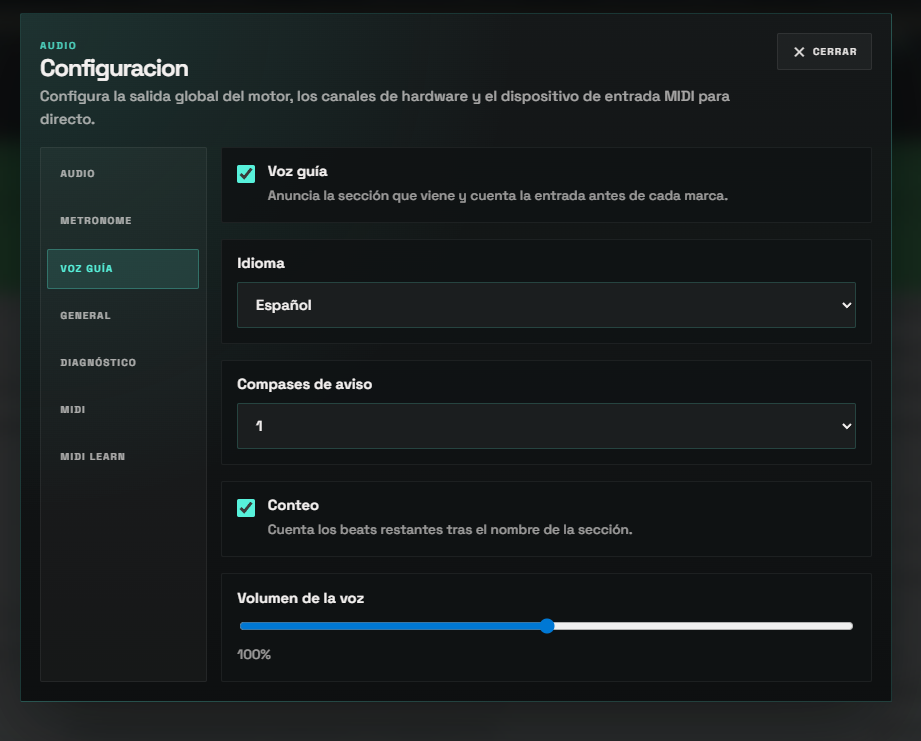
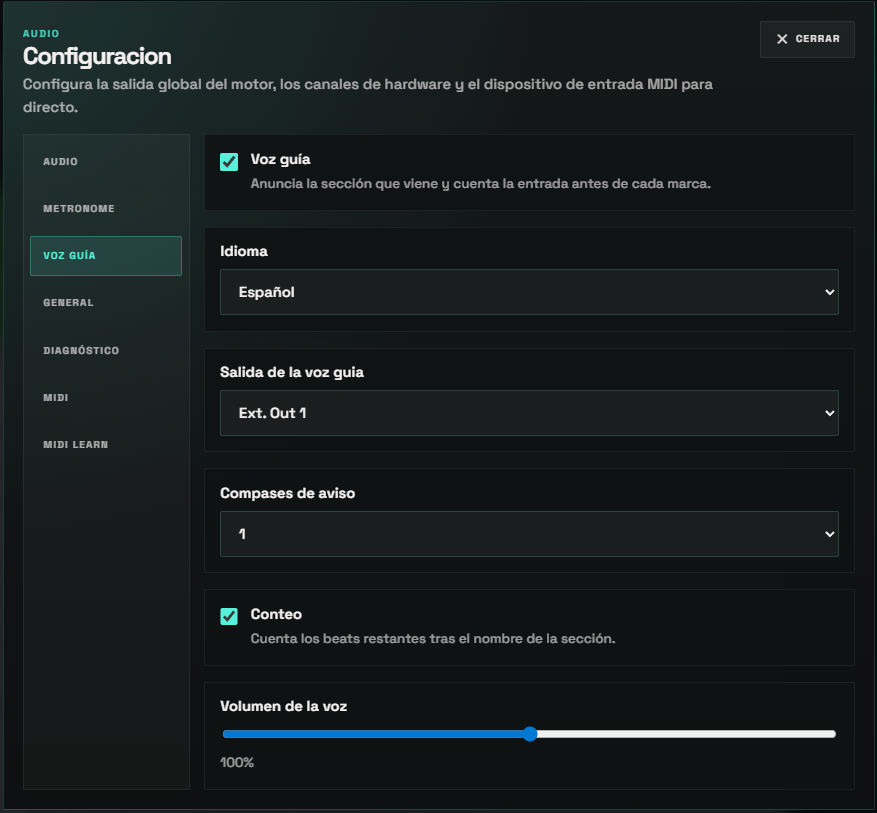
feat(voice-guide): add configurable voice guide output routing and update related settings

diff --git a/apps/desktop/src/features/transport/panels/SettingsPanel.tsx b/apps/desktop/src/features/transport/panels/SettingsPanel.tsx
@@ -174,6 +174,13 @@ export function SettingsPanel({
   onMidiLearnTarget,
 }: SettingsPanelProps) {
   const { t } = useTranslation();
+  const voiceGuideRoutingOptions = [
+    {
+      value: "monitor",
+      label: t("trackHeader.monitor", { defaultValue: "Monitor" }),
+    },
+    ...audioRoutingOptions.filter((option) => option.value !== "monitor"),
+  ];
 
   if (!isOpen) {
     return null;
@@ -925,6 +932,29 @@ export function SettingsPanel({
                           >
                             <option value="es">Español</option>
                             <option value="en">English</option>
+                          </select>
+                        </label>
+
+                        <label className="lt-settings-field">
+                          <span className="lt-settings-field-label">
+                            {t("transport.settingsModal.voiceGuideOutput", {
+                              defaultValue: "Voice guide output",
+                            })}
+                          </span>
+                          <select
+                            value={appSettings.voiceGuideOutput}
+                            disabled={isLoading || isSaving}
+                            onChange={(event) =>
+                              onVoiceGuideChange({
+                                voiceGuideOutput: event.target.value,
+                              })
+                            }
+                          >
+                            {voiceGuideRoutingOptions.map((option) => (
+                              <option key={option.value} value={option.value}>
+                                {option.label}
+                              </option>
+                            ))}
                           </select>
                         </label>
 

diff --git a/packages/shared/src/models.ts b/packages/shared/src/models.ts
@@ -435,6 +435,7 @@ export type AppSettings = {
   metronomeSubdivisionPitch: number;
   metronomeSubdivisionGain: number;
   voiceGuideEnabled: boolean;
+  voiceGuideOutput: string;
   voiceGuideVolume: number;
   voiceGuideLeadBars: number;
   voiceGuideCountInEnabled: boolean;
@@ -477,6 +478,7 @@ export const DEFAULT_APP_SETTINGS: AppSettings = {
   metronomeSubdivisionPitch: 0,
   metronomeSubdivisionGain: 0.5,
   voiceGuideEnabled: false,
+  voiceGuideOutput: "monitor",
   voiceGuideVolume: 1.0,
   voiceGuideLeadBars: 1,
   voiceGuideCountInEnabled: true,
@@ -590,6 +592,9 @@ export function normalizeAppSettings(settings: AppSettings): AppSettings {
   const metronomeOutput =
     settings.metronomeOutput?.trim().toLowerCase() ||
     DEFAULT_APP_SETTINGS.metronomeOutput;
+  const voiceGuideOutput =
+    settings.voiceGuideOutput?.trim().toLowerCase() ||
+    DEFAULT_APP_SETTINGS.voiceGuideOutput;
   const globalJumpMode =
     settings.globalJumpMode === "after_bars" ||
     settings.globalJumpMode === "next_marker"
@@ -654,6 +659,7 @@ export function normalizeAppSettings(settings: AppSettings): AppSettings {
     metronomeSubdivisionPitch,
     metronomeSubdivisionGain,
     voiceGuideEnabled: Boolean(settings.voiceGuideEnabled),
+    voiceGuideOutput,
     voiceGuideVolume: Number.isFinite(settings.voiceGuideVolume)
       ? Math.min(4, Math.max(0, settings.voiceGuideVolume))
       : DEFAULT_APP_SETTINGS.voiceGuideVolume,

diff --git a/apps/desktop/src/features/transport/helpers.ts b/apps/desktop/src/features/transport/helpers.ts
@@ -108,6 +108,10 @@ export function formatAudioRouteLabel(route: string, t: TFunc) {
     return t("trackHeader.master", { defaultValue: "Master" });
   }
 
+  if (route === "monitor") {
+    return t("trackHeader.monitor", { defaultValue: "Monitor" });
+  }
+
   if (route.startsWith("ext:")) {
     const channelPart = route.slice(4);
     if (channelPart.includes("-")) {

diff --git a/apps/desktop/src/shared/i18n/en.ts b/apps/desktop/src/shared/i18n/en.ts
@@ -122,6 +122,7 @@ const en = {
       metronomeVolume: "Metronome volume",
       metronomeVolumeValue: "{{value}}%",
       metronomeOutput: "Metronome output",
+      voiceGuideOutput: "Voice guide output",
       metronomeAccentSound: "Accent sound",
       metronomeBeatSound: "Beat sound",
       metronomeAccentPitch: "Accent pitch",
@@ -547,6 +548,7 @@ const en = {
     transposeDisableAria: "Disable pitch transposition on {{name}}",
     inherited: "Inherited (Folder)",
     master: "Master",
+    monitor: "Monitor",
     extOutMono: "Ext. Out {{channel}}",
     extOutStereo: "Ext. Out {{left}}/{{right}}",
   },

diff --git a/apps/desktop/src/shared/i18n/es.ts b/apps/desktop/src/shared/i18n/es.ts
@@ -123,6 +123,7 @@ const es = {
       metronomeVolume: "Volumen del metronomo",
       metronomeVolumeValue: "{{value}}%",
       metronomeOutput: "Salida del metronomo",
+      voiceGuideOutput: "Salida de la voz guia",
       tabVoiceGuide: "Voz guía",
       voiceGuide: "Voz guía",
       voiceGuideDescription:
@@ -572,6 +573,7 @@ const es = {
     transposeDisableAria: "Desactivar la transposicion de tono en {{name}}",
     inherited: "Heredado (Folder)",
     master: "Master",
+    monitor: "Monitor",
     extOutMono: "Ext. Out {{channel}}",
     extOutStereo: "Ext. Out {{left}}/{{right}}",
   },

diff --git a/apps/desktop/src/app/testDesktopApiMock.ts b/apps/desktop/src/app/testDesktopApiMock.ts
@@ -410,6 +410,7 @@ function buildInitialState(): DesktopApiMockState {
       metronomeSubdivisionPitch: 0,
       metronomeSubdivisionGain: 0.5,
       voiceGuideEnabled: false,
+      voiceGuideOutput: "monitor",
       voiceGuideVolume: 1.0,
       voiceGuideLeadBars: 1,
       voiceGuideCountInEnabled: true,

diff --git a/native/audio-engine-v2/src/render/voice_guide_renderer.cpp b/native/audio-engine-v2/src/render/voice_guide_renderer.cpp
@@ -4,6 +4,7 @@
 
 #include <algorithm>
 #include <atomic>
+#include <cctype>
 #include <cmath>
 #include <cstring>
 #include <string>
@@ -260,8 +261,31 @@ void VoiceGuideRenderer::set_config(const VoiceGuideConfig& config) {
     copy_text(output_route_, route);
     if (route == "master") {
         route_mode_.store(static_cast<int>(RouteMode::Master), std::memory_order_release);
+        route_start_.store(0, std::memory_order_release);
+        route_end_.store(1, std::memory_order_release);
+    } else if (route.rfind("ext:", 0) == 0) {
+        route_mode_.store(static_cast<int>(RouteMode::Ext), std::memory_order_release);
+        std::string spec = route.substr(4);
+        auto dash = spec.find('-');
+        int start = 0;
+        int end = 0;
+        try {
+            if (dash == std::string::npos) {
+                start = end = std::max(0, std::stoi(spec));
+            } else {
+                start = std::max(0, std::stoi(spec.substr(0, dash)));
+                end = std::max(start, std::stoi(spec.substr(dash + 1)));
+            }
+        } catch (...) {
+            start = 2;
+            end = 3;
+        }
+        route_start_.store(start, std::memory_order_release);
+        route_end_.store(end, std::memory_order_release);
     } else {
         route_mode_.store(static_cast<int>(RouteMode::Monitor), std::memory_order_release);
+        route_start_.store(2, std::memory_order_release);
+        route_end_.store(3, std::memory_order_release);
     }
 }
 
@@ -388,7 +412,8 @@ void VoiceGuideRenderer::render(float** output_channels,
         if (current_output_gain_ <= 0.000001f) return;
     }
 
-    // Resolve the monitor output pair (channels 2-3 when available, else 0-1).
+    // Resolve the configured output route. The legacy monitor bus uses
+    // channels 2-3 when available, else falls back to the main pair.
     int left = 0;
     int right = std::min(1, num_channels - 1);
     const int mode = route_mode_.load(std::memory_order_acquire);
@@ -400,6 +425,10 @@ void VoiceGuideRenderer::render(float** output_channels,
         } else {
             copy_text(route_resolved_, "monitor_fallback_master");
         }
+    } else if (mode == static_cast<int>(RouteMode::Ext)) {
+        left = std::clamp(route_start_.load(std::memory_order_acquire), 0, num_channels - 1);
+        right = std::clamp(route_end_.load(std::memory_order_acquire), 0, num_channels - 1);
+        copy_text(route_resolved_, "ext");
     } else {
         copy_text(route_resolved_, "master");
     }

diff --git a/native/audio-engine-v2/tests/test_voice_guide_renderer.cpp b/native/audio-engine-v2/tests/test_voice_guide_renderer.cpp
@@ -128,6 +128,18 @@ TEST_CASE("voice guide routes to the monitor bus, not master") {
     CHECK(peak(ch[1]) == doctest::Approx(0.0f));
 }
 
+TEST_CASE("voice guide can route to a specific external mono output") {
+    VoiceGuideRenderer r;
+    r.set_clip_bank(make_marked_bank());
+    r.set_config({true, 1.0f, "ext:1", 1, true});
+    auto session = make_session(MarkerKind::Chorus, 4.0);
+    auto ch = render_all(r, session, kSampleRate * 6);
+    CHECK(peak(ch[1]) > 0.05f);
+    CHECK(peak(ch[0]) == doctest::Approx(0.0f));
+    CHECK(peak(ch[2]) == doctest::Approx(0.0f));
+    CHECK(peak(ch[3]) == doctest::Approx(0.0f));
+}
+
 TEST_CASE("voice guide fires section announcement + full count in a 4/4 lead bar") {
     VoiceGuideRenderer r;
     r.set_clip_bank(make_marked_bank());

diff --git a/apps/desktop/src-tauri/src/state.rs b/apps/desktop/src-tauri/src/state.rs
@@ -1429,6 +1429,14 @@ impl DesktopSession {
                 - next_settings.metronome_subdivision_gain)
                 .abs()
                 > f32::EPSILON;
+        let voice_guide_config_changed = previous_settings.voice_guide_enabled
+            != next_settings.voice_guide_enabled
+            || previous_settings.voice_guide_output != next_settings.voice_guide_output
+            || (previous_settings.voice_guide_volume - next_settings.voice_guide_volume).abs()
+                > f64::EPSILON
+            || previous_settings.voice_guide_lead_bars != next_settings.voice_guide_lead_bars
+            || previous_settings.voice_guide_count_in_enabled
+                != next_settings.voice_guide_count_in_enabled;
 
         if !device_changed
             && !midi_changed
@@ -1437,6 +1445,7 @@ impl DesktopSession {
             && !metronome_volume_changed
             && !metronome_output_changed
             && !metronome_sound_changed
+            && !voice_guide_config_changed
         {
             return Ok(next_settings);
         }

diff --git a/apps/desktop/src-tauri/src/settings.rs b/apps/desktop/src-tauri/src/settings.rs
@@ -57,6 +57,10 @@ fn default_audio_route() -> String {
     "master".into()
 }
 
+fn default_voice_guide_route() -> String {
+    "monitor".into()
+}
+
 fn default_global_jump_mode() -> String {
     "immediate".into()
 }
@@ -152,6 +156,8 @@ pub struct AppSettings {
     pub metronome_subdivision_gain: f32,
     #[serde(default)]
     pub voice_guide_enabled: bool,
+    #[serde(default = "default_voice_guide_route")]
+    pub voice_guide_output: String,
     #[serde(default = "default_voice_guide_volume")]
     pub voice_guide_volume: f64,
     #[serde(default = "default_voice_guide_lead_bars")]
@@ -218,6 +224,7 @@ impl Default for AppSettings {
             metronome_subdivision_pitch: default_metronome_pitch(),
             metronome_subdivision_gain: default_metronome_subdivision_gain(),
             voice_guide_enabled: false,
+            voice_guide_output: default_voice_guide_route(),
             voice_guide_volume: default_voice_guide_volume(),
             voice_guide_lead_bars: default_voice_guide_lead_bars(),
             voice_guide_count_in_enabled: default_voice_guide_count_in_enabled(),
@@ -351,6 +358,7 @@ mod tests {
         assert!(!settings.metronome_enabled);
         assert_eq!(settings.metronome_volume, 0.8);
         assert_eq!(settings.metronome_output, "master");
+        assert_eq!(settings.voice_guide_output, "monitor");
         assert_eq!(settings.enabled_output_channels, vec![0, 1]);
         assert_eq!(settings.global_jump_mode, "immediate");
         assert_eq!(settings.global_jump_bars, 4);

diff --git a/apps/desktop/src-tauri/src/audio_engine.rs b/apps/desktop/src-tauri/src/audio_engine.rs
@@ -1089,7 +1089,7 @@ impl AudioController {
             engine.send_command(&EngineCommand::SetVoiceGuideConfig {
                 enabled: settings.voice_guide_enabled,
                 volume: settings.voice_guide_volume as f32,
-                route: "monitor".to_string(),
+                route: settings.voice_guide_output.clone(),
                 lead_bars: settings.voice_guide_lead_bars,
                 count_in_enabled: settings.voice_guide_count_in_enabled,
             })?;
@@ -1350,7 +1350,7 @@ impl AudioController {
             engine.send_command(&EngineCommand::SetVoiceGuideConfig {
                 enabled: settings.voice_guide_enabled,
                 volume: settings.voice_guide_volume as f32,
-                route: "monitor".to_string(),
+                route: settings.voice_guide_output.clone(),
                 lead_bars: settings.voice_guide_lead_bars,
                 count_in_enabled: settings.voice_guide_count_in_enabled,
             })?;

diff --git a/native/audio-engine-v2/include/lt_engine/render/voice_guide_renderer.h b/native/audio-engine-v2/include/lt_engine/render/voice_guide_renderer.h
@@ -159,6 +159,8 @@ private:
     std::atomic<int> lead_bars_{1};
     std::atomic<bool> count_in_enabled_{true};
     std::atomic<int> route_mode_{static_cast<int>(RouteMode::Monitor)};
+    std::atomic<int> route_start_{2};
+    std::atomic<int> route_end_{3};
     std::array<char, 64> output_route_{};
 
     std::shared_ptr<const VoiceGuideClipBank> bank_;